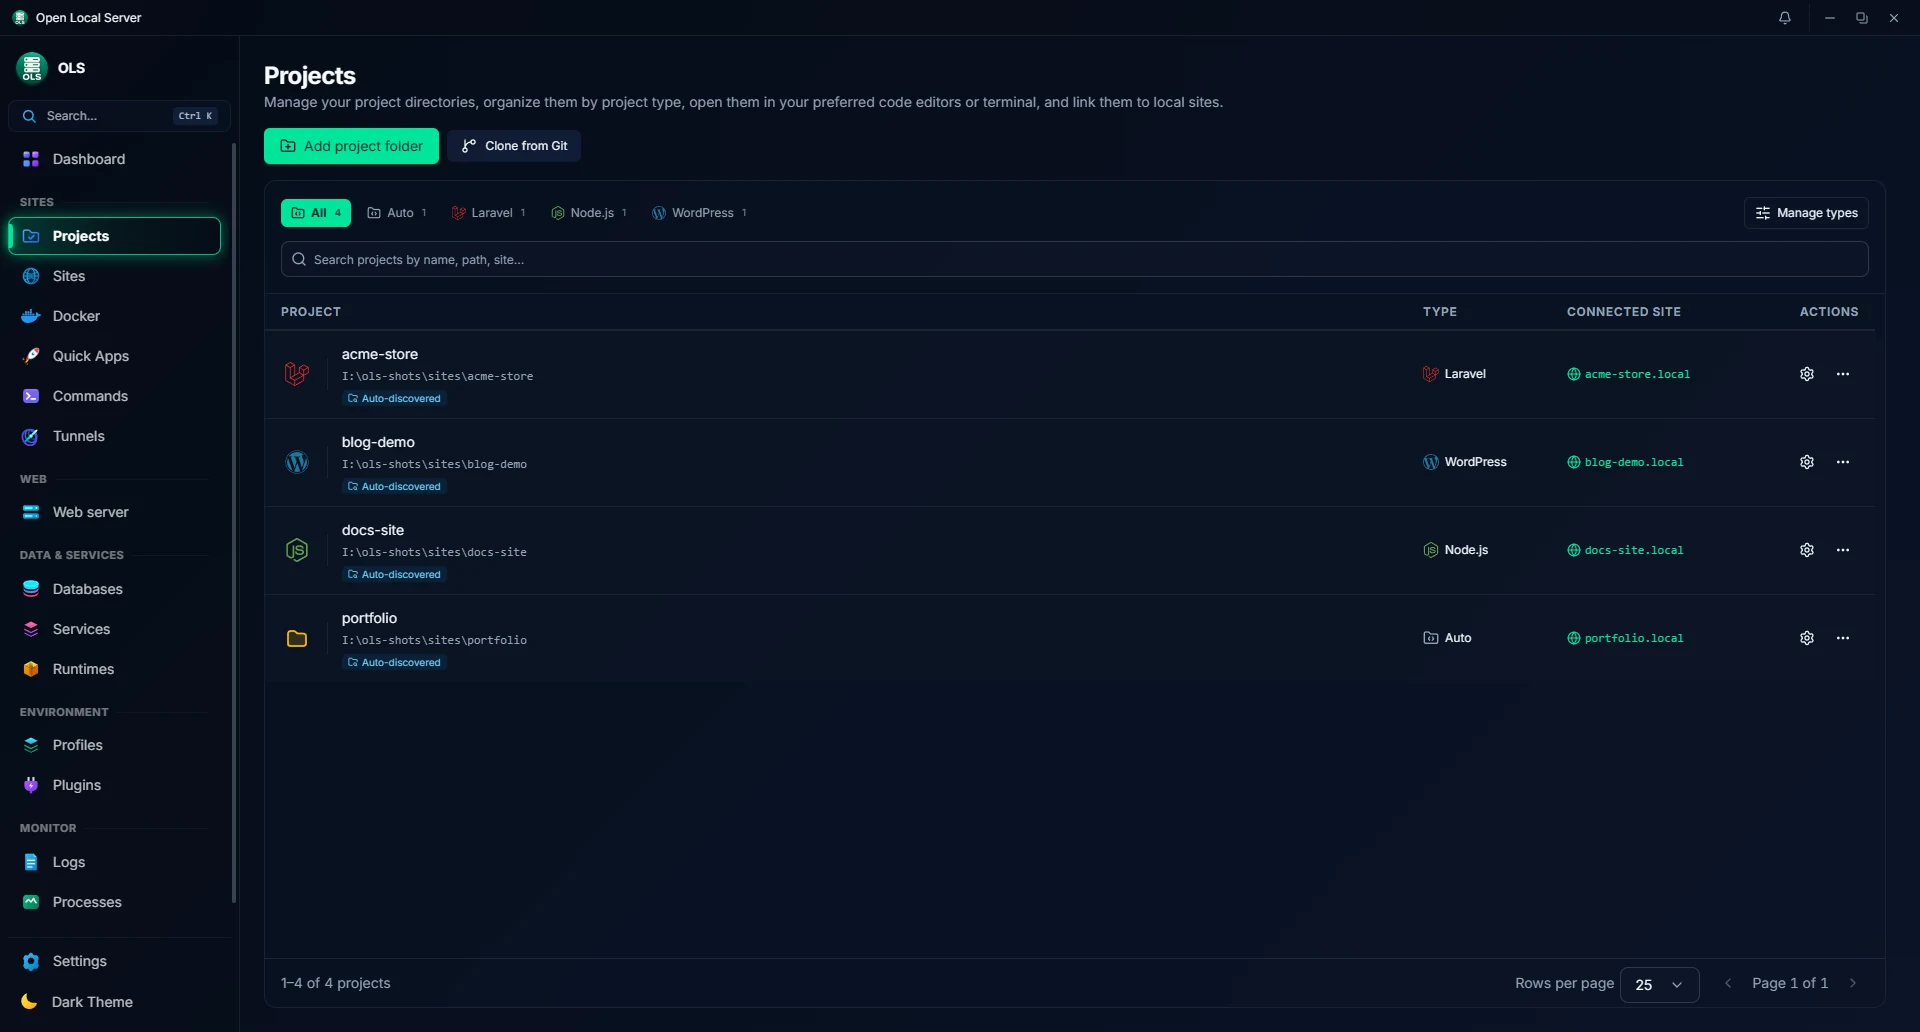
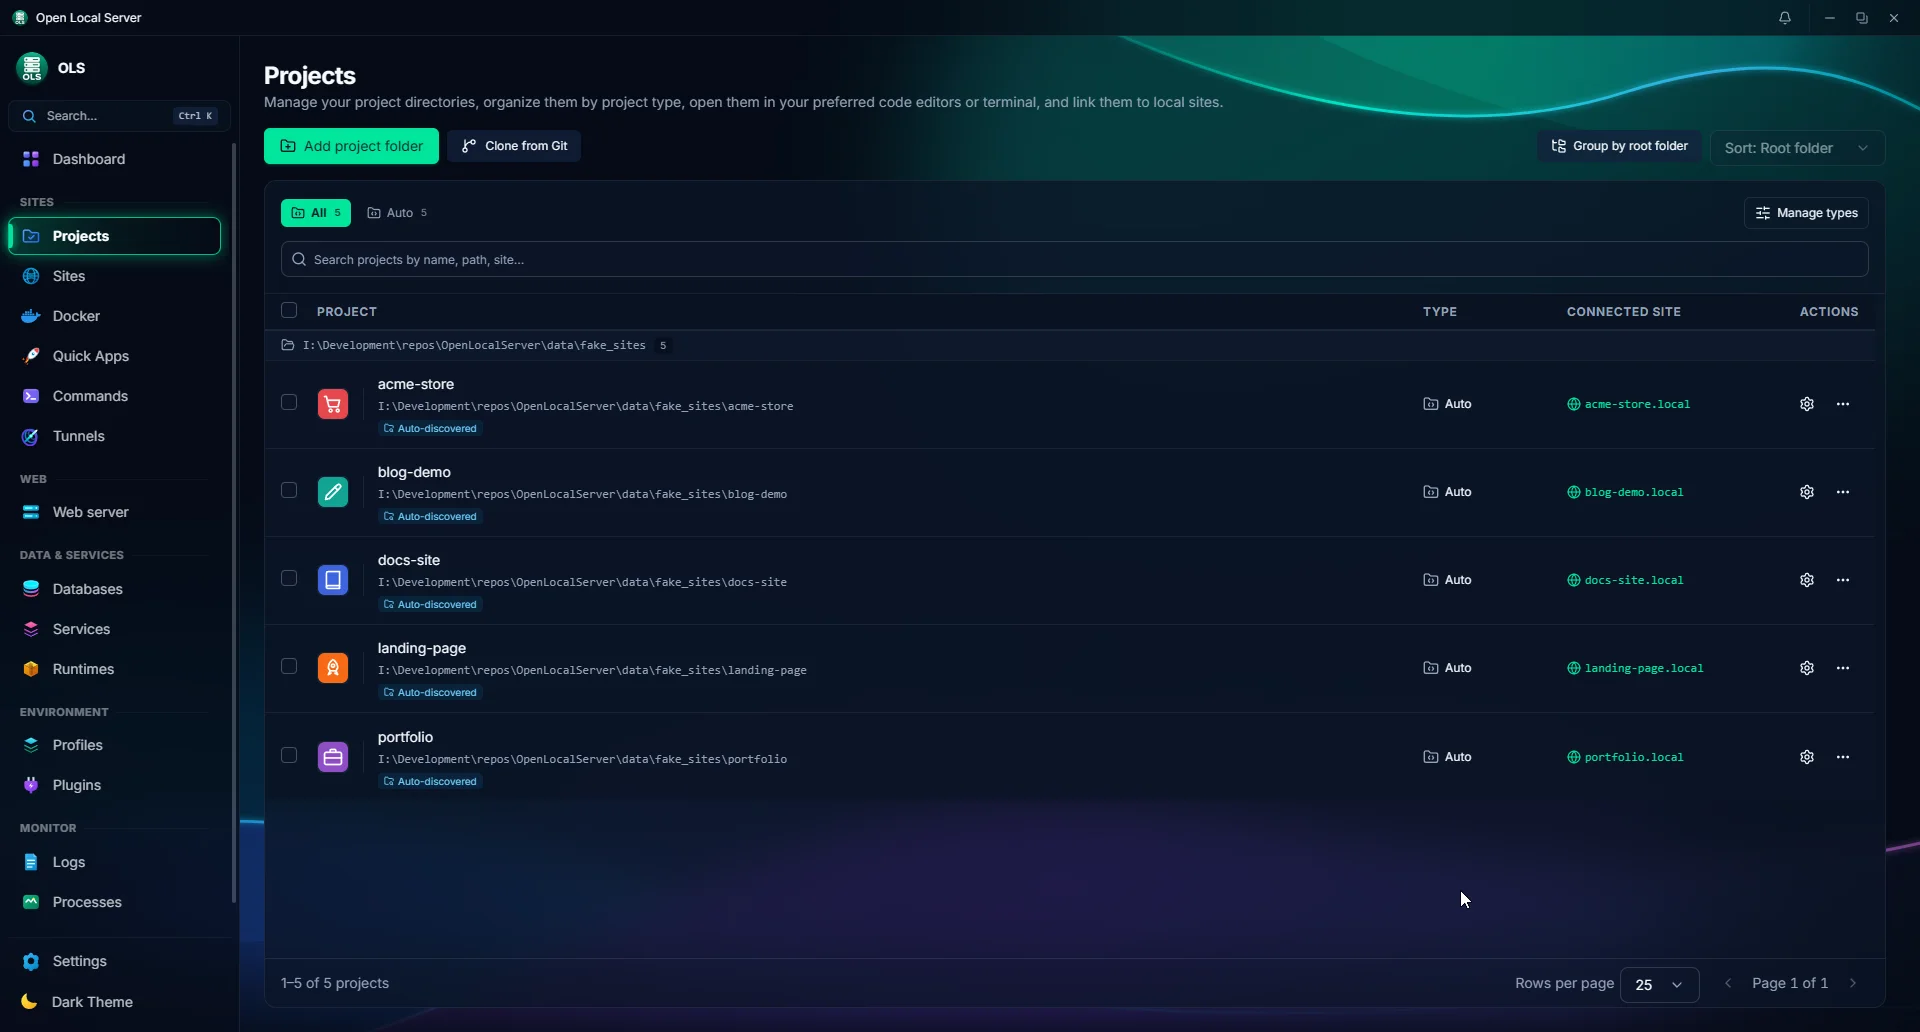
fix: update .gitignore and enhance security guidelines in AGENTS.md

diff --git a/AGENTS.md b/AGENTS.md
@@ -68,3 +68,29 @@ Whenever the application version is bumped or changed (e.g. via `scripts/update-
 4. **Website & Landing Page (on version bump):**
    - `index.html` and `website/`: Update version badges, download links (`OLS-<version>-setup.exe`, portable zip, SHA256 checksums), and footer version marks.
    - `README.md`: Update the version badge link (`version-<version>-blue`).
+
+## 6. Security & Behavior Preservation Rules
+
+These rules apply to every code change, feature, bug fix, and refactoring.
+
+1. **Security First:** Follow secure coding practices. Validate and sanitize untrusted input, enforce proper authorization, and never trust client-side validation alone.
+
+2. **No Secrets:** Never hardcode, expose, log, or commit API keys, credentials, tokens, passwords, or sensitive information.
+
+3. **Safe Operations:** Protect filesystem operations against path traversal and unauthorized access. Safely handle external processes, network requests, file uploads, downloads, and archive extraction.
+
+4. **Input & Output Safety:** Prevent SQL injection, XSS, command injection, and other injection vulnerabilities. Use parameterized queries and context-appropriate output encoding.
+
+5. **Dependency Security:** Avoid unnecessary dependencies. Use trusted sources, review dependency vulnerabilities, and verify downloaded executable files and archives using trusted integrity checks.
+
+6. **Error Handling:** Handle failures safely without exposing sensitive information. Never silently suppress errors or leave operations in an inconsistent state.
+
+7. **Behavior Preservation:** Do not change existing functionality, UI, workflows, APIs, configurations, or defaults unless explicitly required to fix a confirmed bug or implement a requested feature.
+
+8. **Minimal Changes:** Make the smallest safe change possible. Avoid unrelated refactoring and breaking changes.
+
+9. **Testing:** Add or update tests for every meaningful change, especially security-sensitive functionality. Run relevant tests, linting, and static analysis before considering work complete.
+
+10. **Security Review:** Before finalizing any change, review the modified code for newly introduced vulnerabilities, unintended side effects, and regressions.
+
+**Golden Rule:** Every change must be secure, tested, and backward-compatible wherever possible. Never sacrifice security or existing functionality for convenience.
